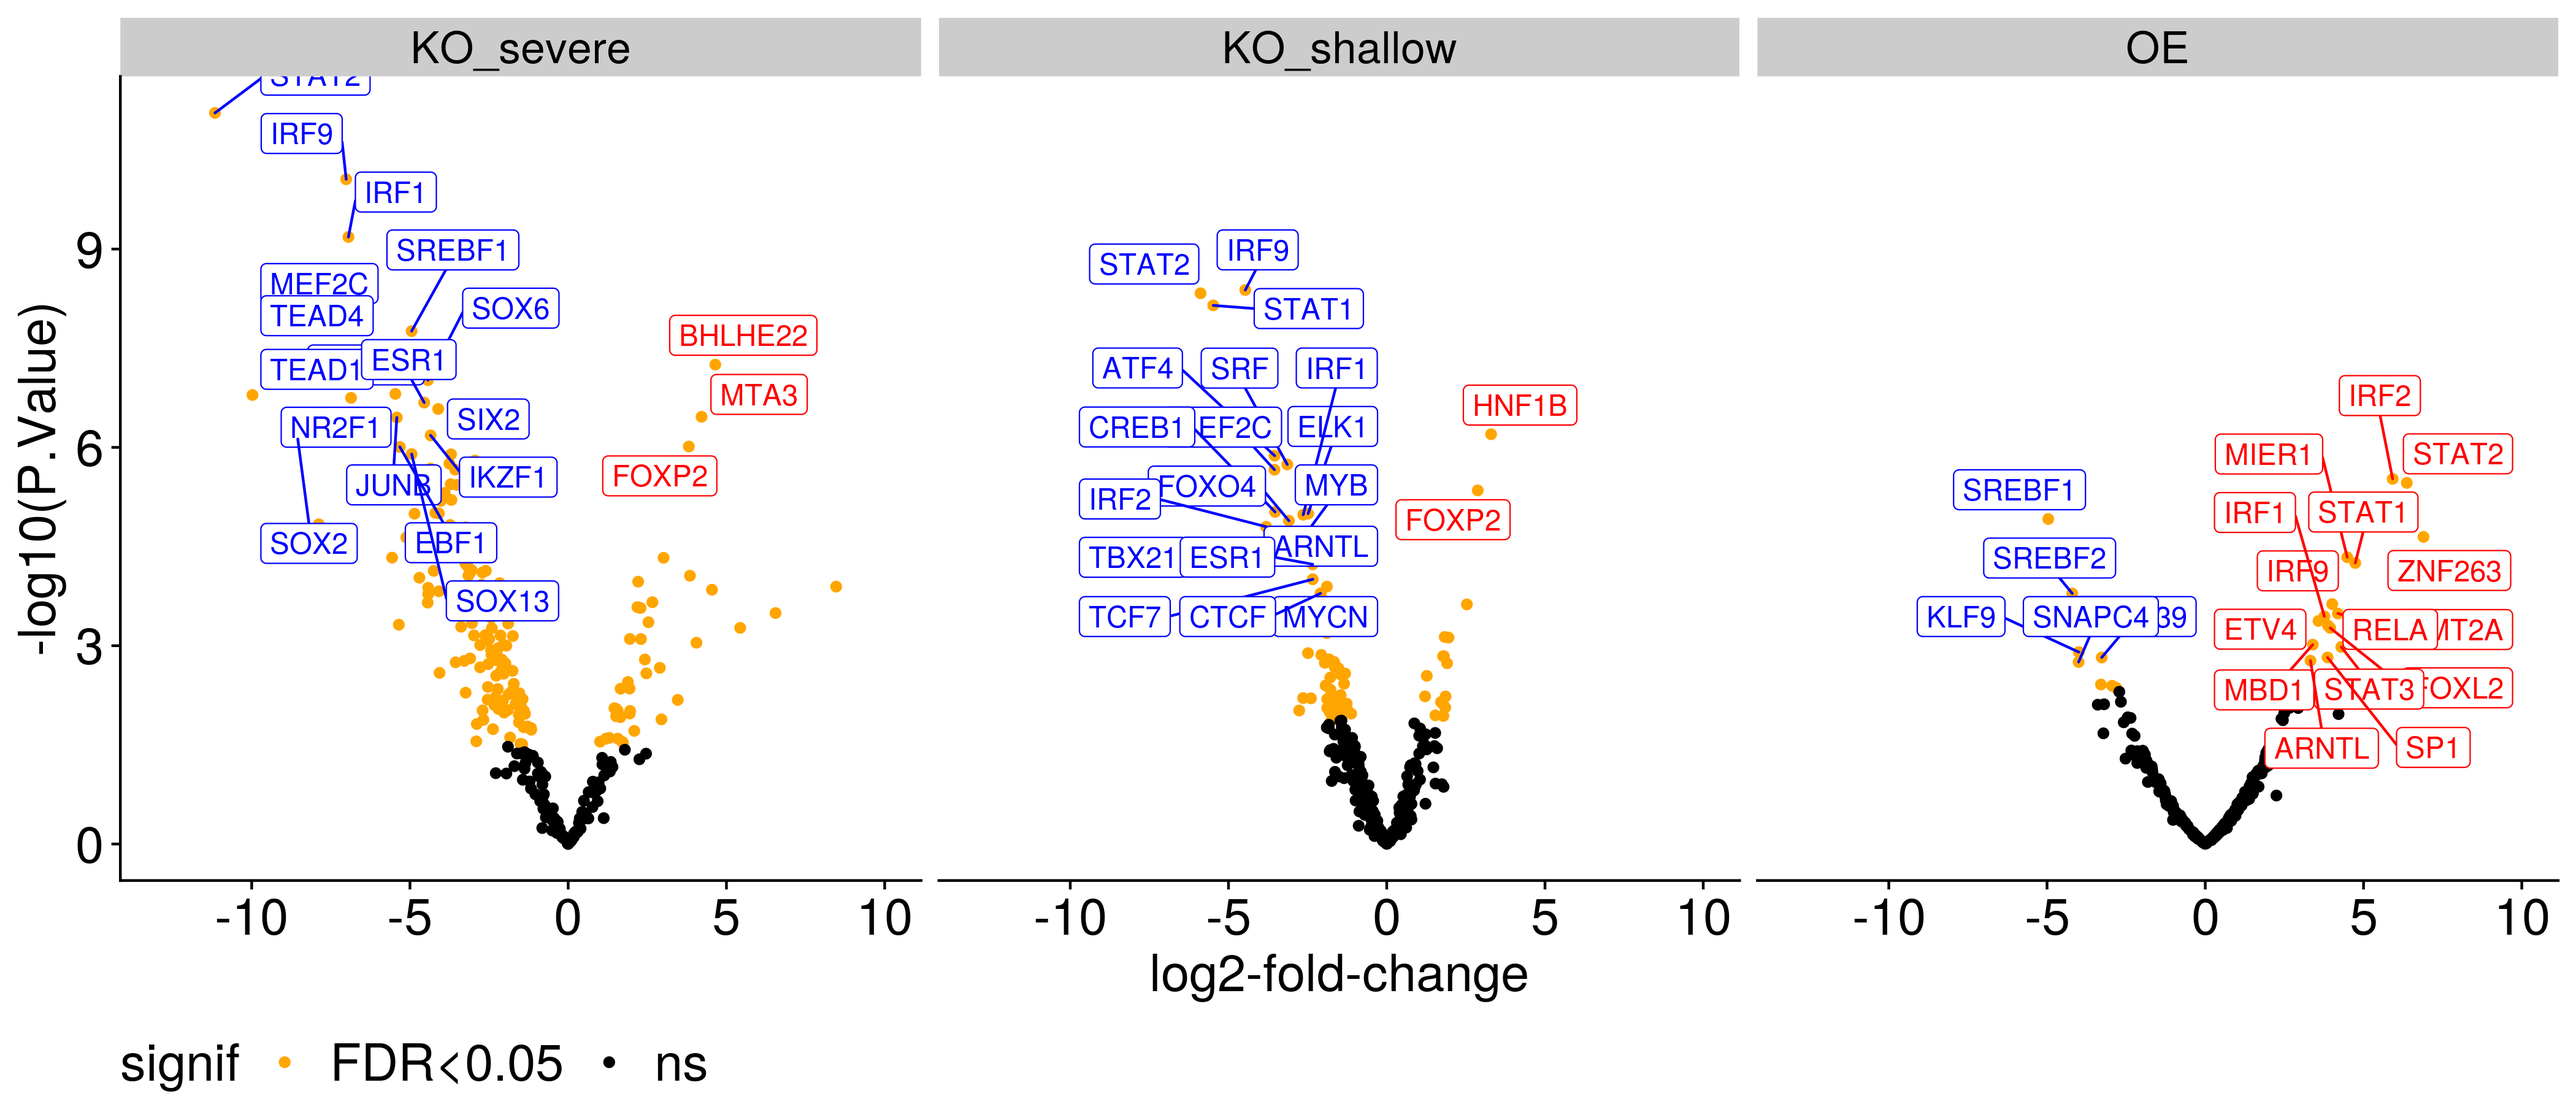
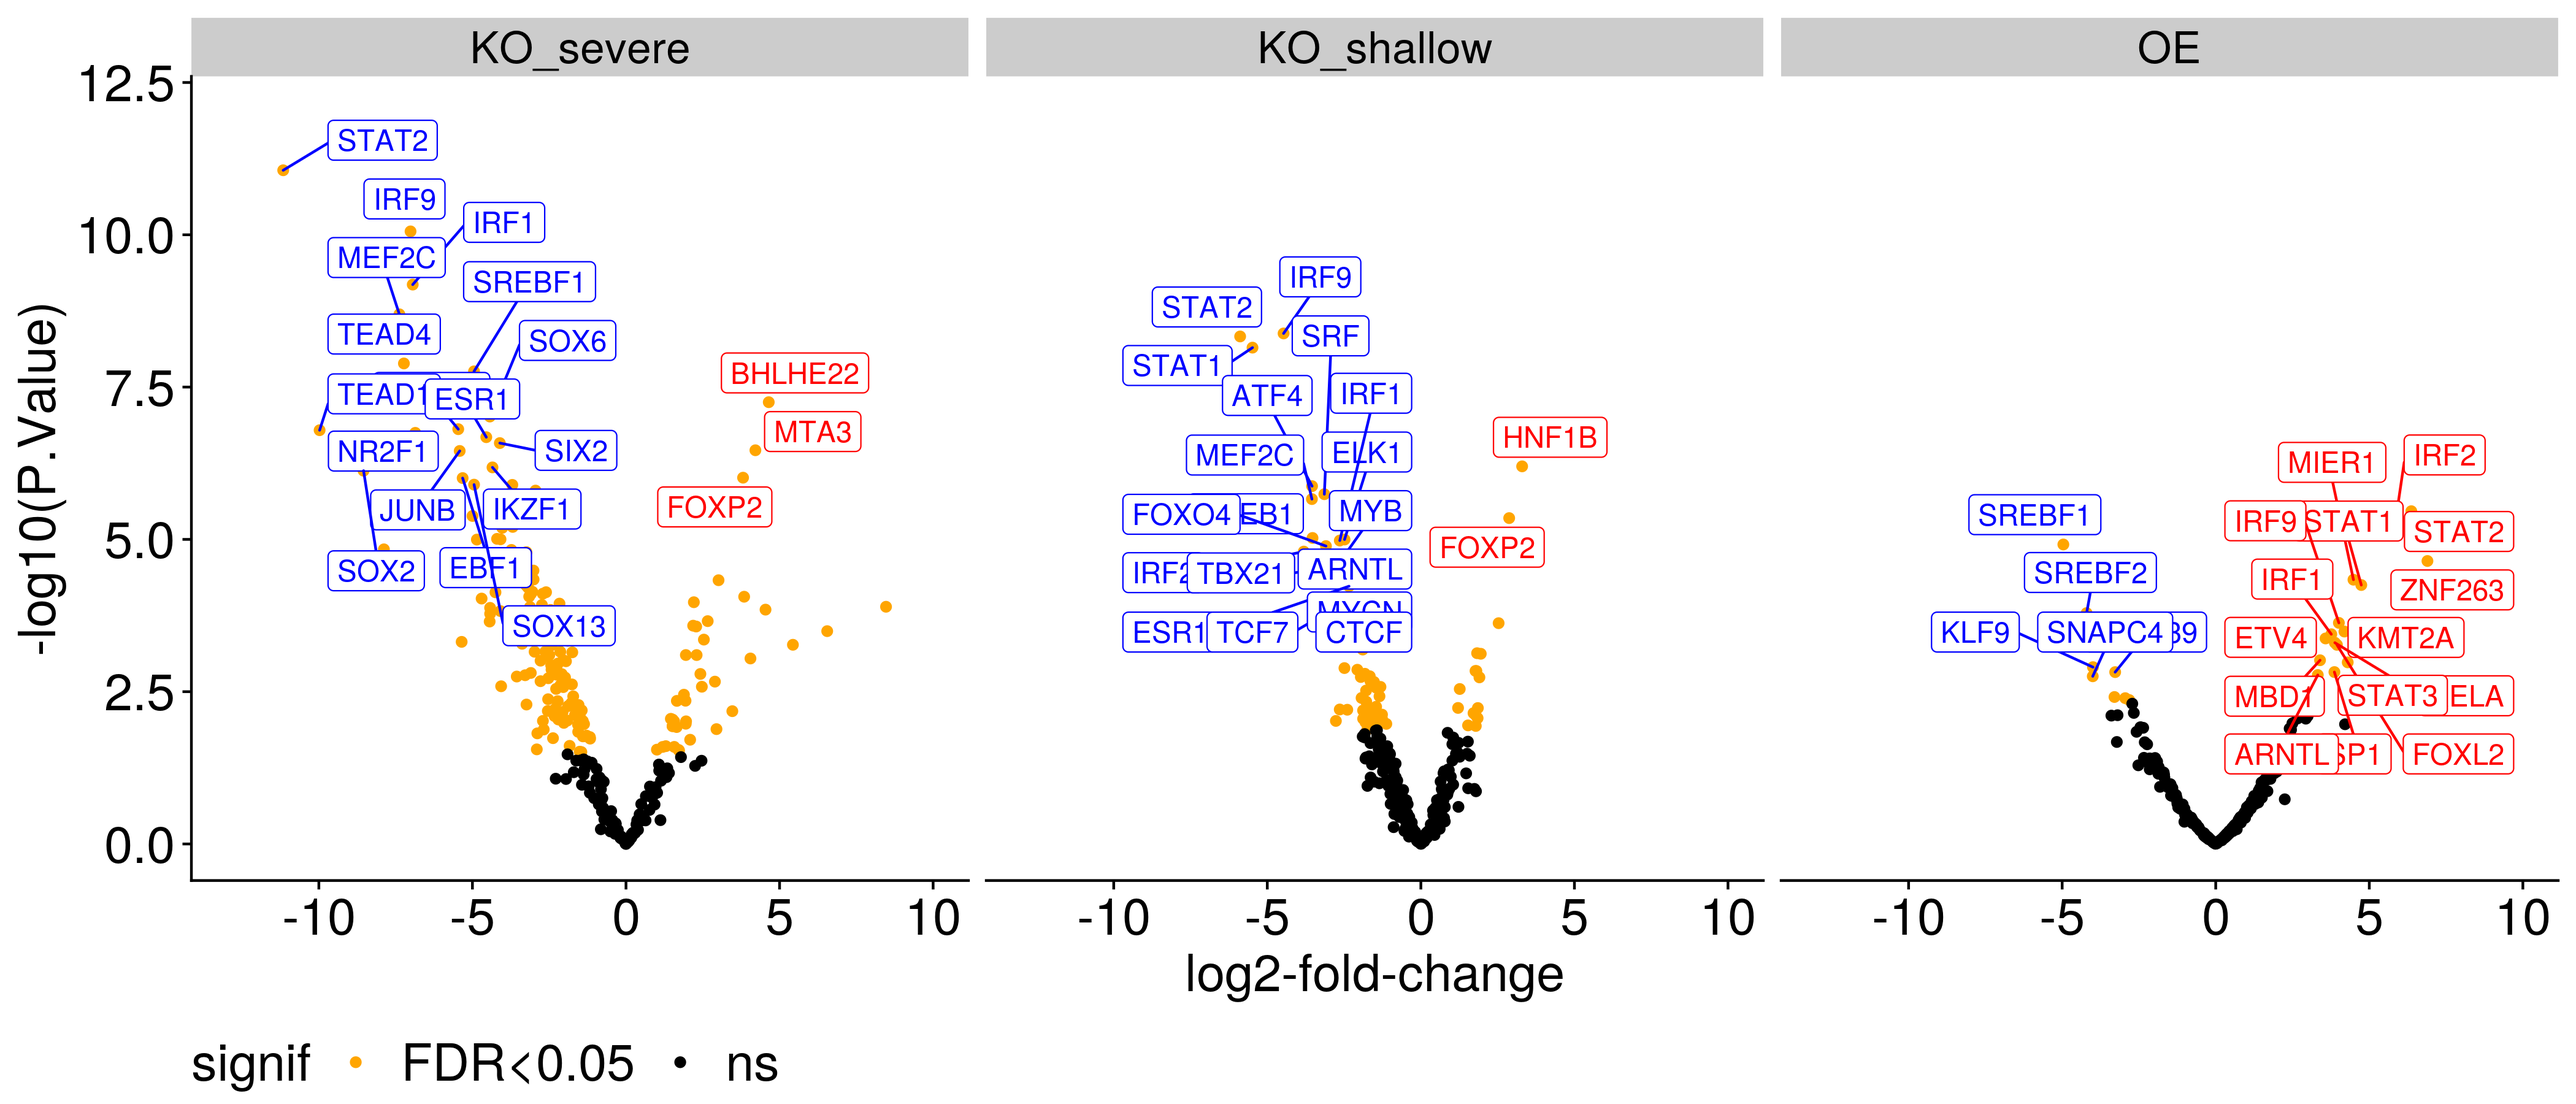
Fix cropped label in volcano

diff --git a/Invitro_MF_Nkd2/03_TF.md b/Invitro_MF_Nkd2/03_TF.md
@@ -46,86 +46,11 @@ Essential libraries for R analysis.
 library(fgsea)
 library(limma)
 library(viper)
-```
-
-    ## Loading required package: Biobase
-
-    ## Loading required package: BiocGenerics
-
-    ## Loading required package: parallel
-
-    ## 
-    ## Attaching package: 'BiocGenerics'
-
-    ## The following objects are masked from 'package:parallel':
-    ## 
-    ##     clusterApply, clusterApplyLB, clusterCall, clusterEvalQ,
-    ##     clusterExport, clusterMap, parApply, parCapply, parLapply,
-    ##     parLapplyLB, parRapply, parSapply, parSapplyLB
-
-    ## The following object is masked from 'package:limma':
-    ## 
-    ##     plotMA
-
-    ## The following objects are masked from 'package:stats':
-    ## 
-    ##     IQR, mad, sd, var, xtabs
-
-    ## The following objects are masked from 'package:base':
-    ## 
-    ##     anyDuplicated, append, as.data.frame, basename, cbind, colnames,
-    ##     dirname, do.call, duplicated, eval, evalq, Filter, Find, get, grep,
-    ##     grepl, intersect, is.unsorted, lapply, Map, mapply, match, mget,
-    ##     order, paste, pmax, pmax.int, pmin, pmin.int, Position, rank,
-    ##     rbind, Reduce, rownames, sapply, setdiff, sort, table, tapply,
-    ##     union, unique, unsplit, which, which.max, which.min
-
-    ## Welcome to Bioconductor
-    ## 
-    ##     Vignettes contain introductory material; view with
-    ##     'browseVignettes()'. To cite Bioconductor, see
-    ##     'citation("Biobase")', and for packages 'citation("pkgname")'.
-
-``` r
 library(purrr)
 library(dorothea)
 library(ComplexHeatmap)
-```
-
-    ## Loading required package: grid
-
-    ## ========================================
-    ## ComplexHeatmap version 2.4.2
-    ## Bioconductor page: http://bioconductor.org/packages/ComplexHeatmap/
-    ## Github page: https://github.com/jokergoo/ComplexHeatmap
-    ## Documentation: http://jokergoo.github.io/ComplexHeatmap-reference
-    ## 
-    ## If you use it in published research, please cite:
-    ## Gu, Z. Complex heatmaps reveal patterns and correlations in multidimensional 
-    ##   genomic data. Bioinformatics 2016.
-    ## 
-    ## This message can be suppressed by:
-    ##   suppressPackageStartupMessages(library(ComplexHeatmap))
-    ## ========================================
-
-``` r
 library(ggplot2)
 library(cowplot)
-```
-
-    ## 
-    ## ********************************************************
-
-    ## Note: As of version 1.0.0, cowplot does not change the
-
-    ##   default ggplot2 theme anymore. To recover the previous
-
-    ##   behavior, execute:
-    ##   theme_set(theme_cowplot())
-
-    ## ********************************************************
-
-``` r
 library(ggrepel)
 fontTXT <- "sans"
 ```
@@ -293,6 +218,7 @@ ggplot(dat, aes(x=logFC, y=-log10(P.Value), colour=signif)) +
               ylim=c(1,20)) +
 
     coord_cartesian(xlim = c(-13,10), 
+            ylim=c(0, ceiling(max(-log10(dat$P.Value)))),
             clip = "off") +
     scale_color_manual(values=c("orange", "black")) +
     xlab("log2-fold-change") +
